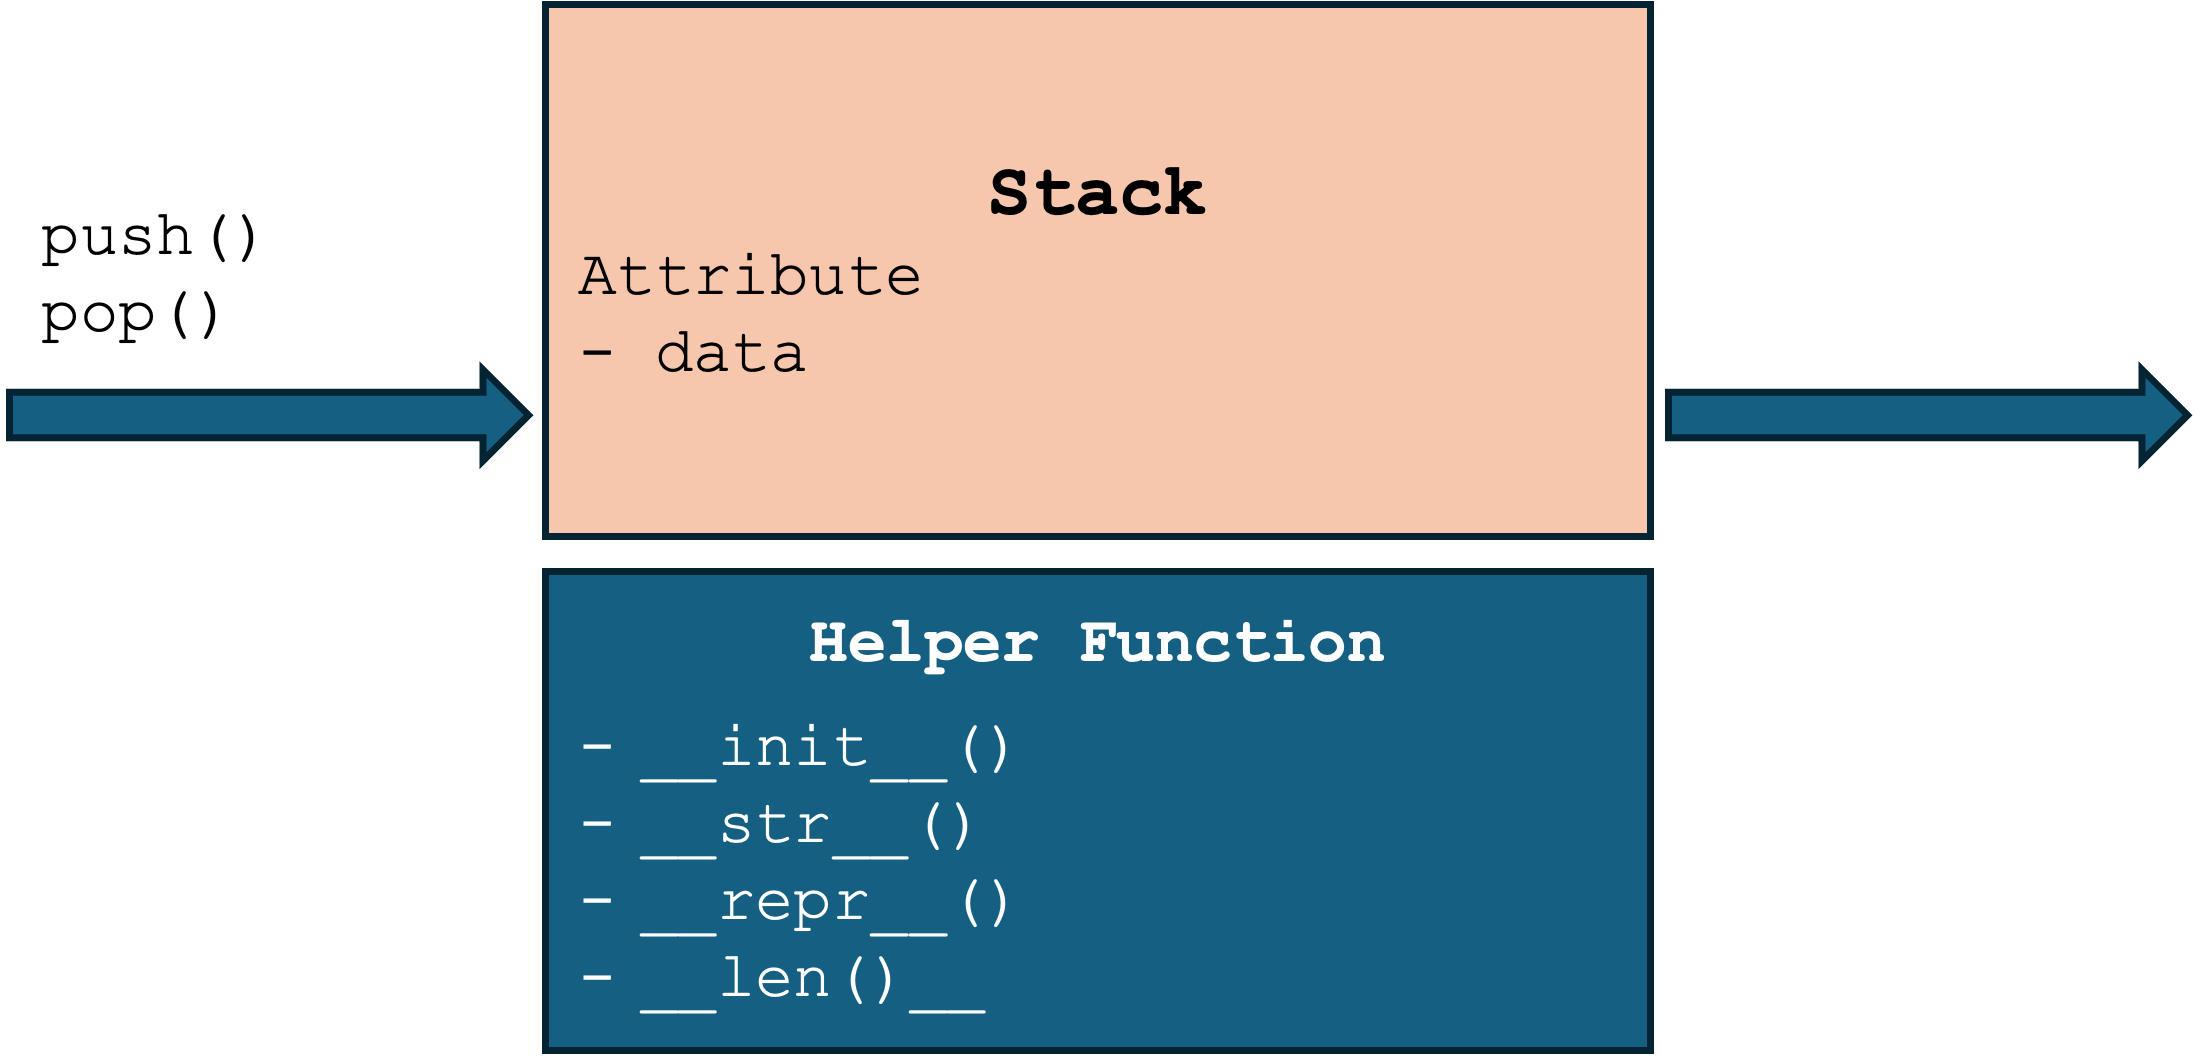
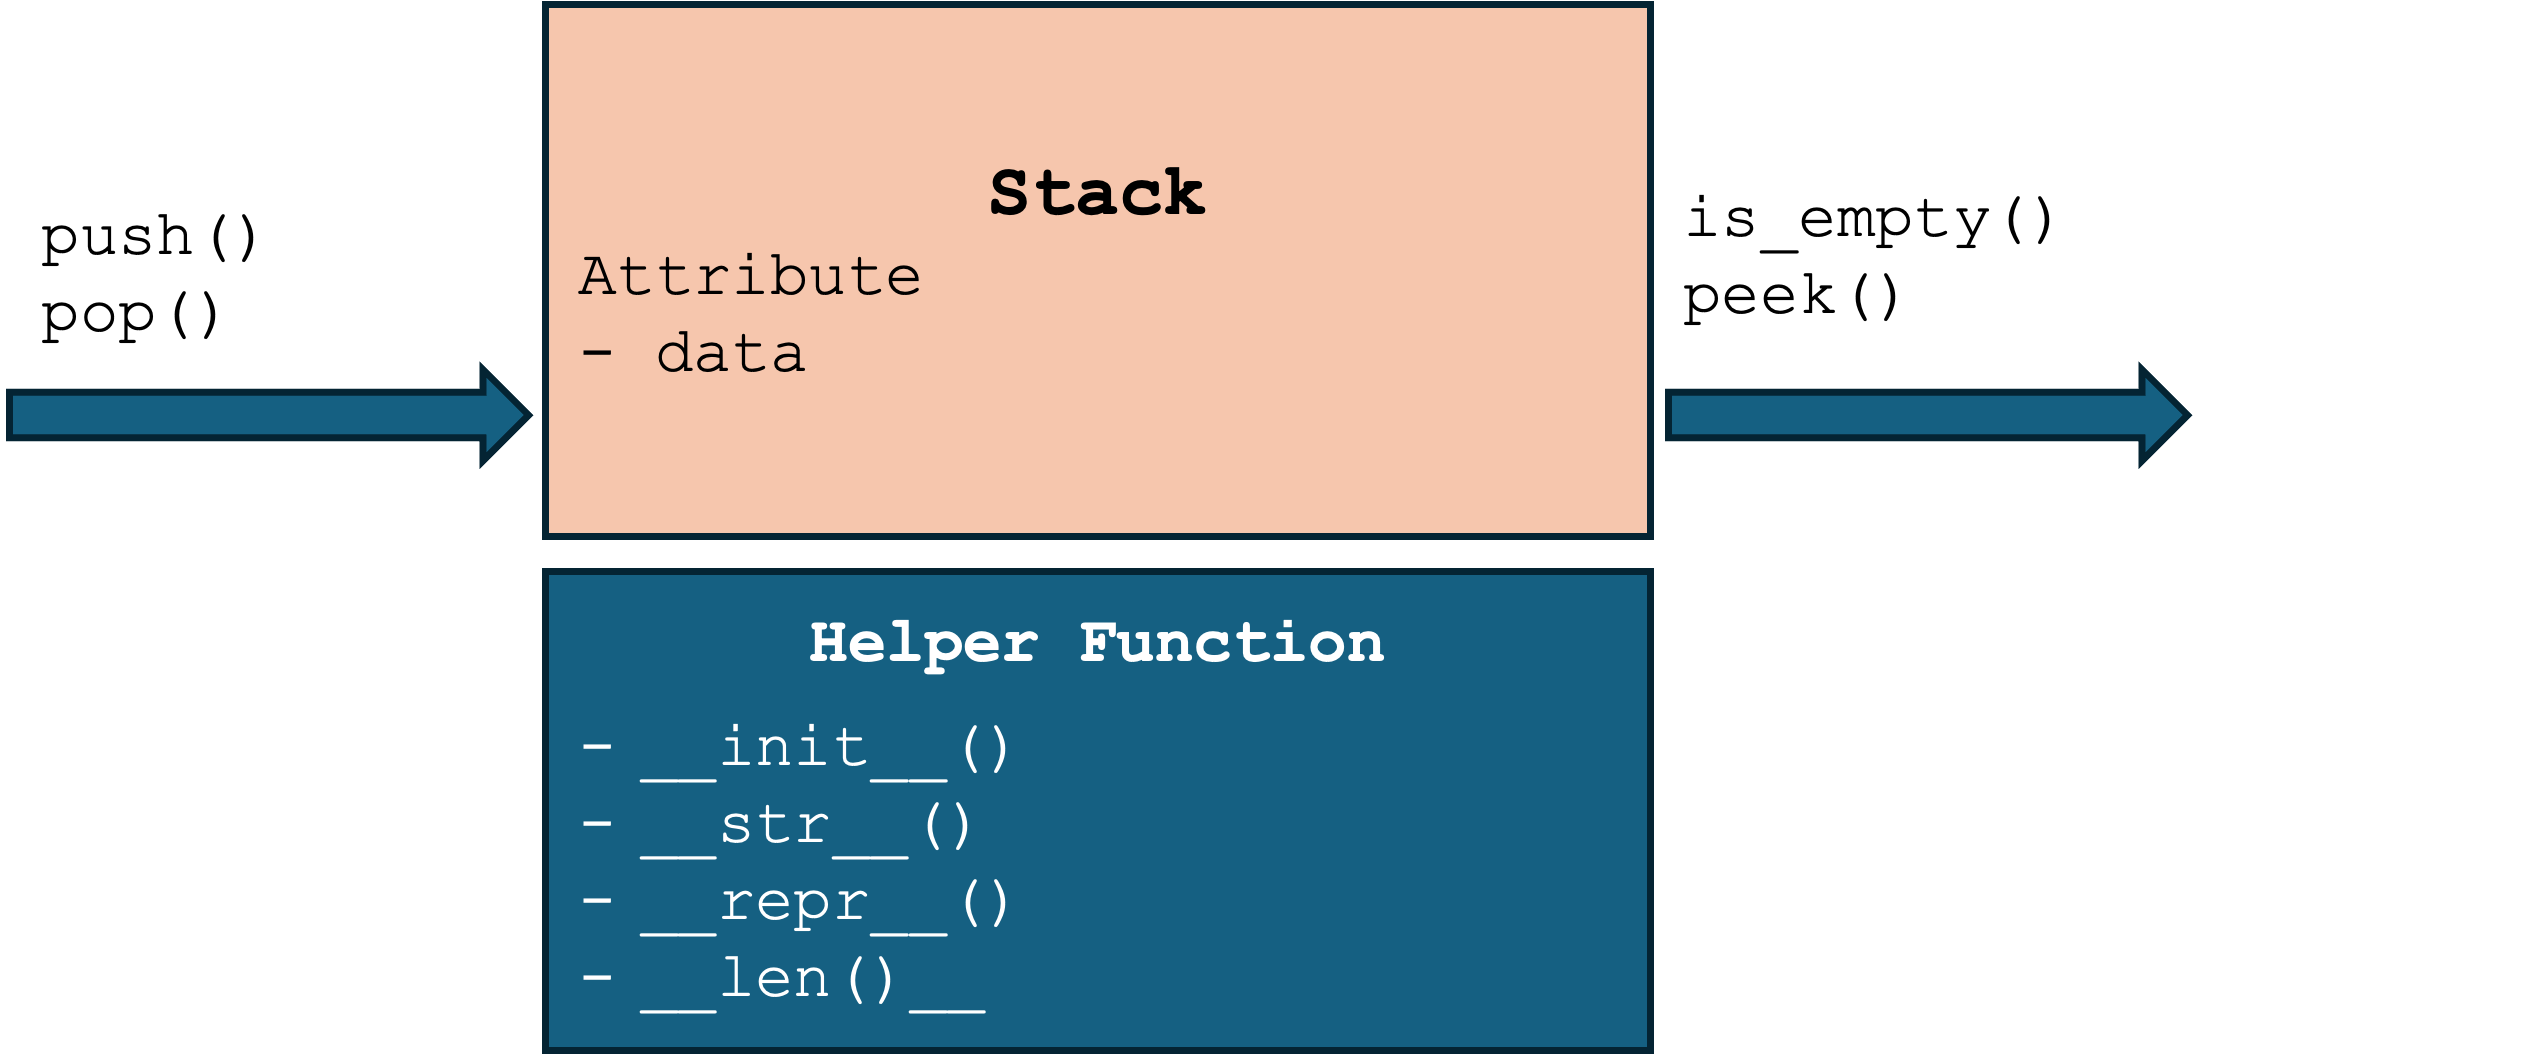
revise ch06

diff --git a/code/ch06_stack_list.py b/code/ch06_stack_list.py
@@ -1,0 +1,48 @@
+class Stack:
+    def __init__(self):
+        self._data = []
+
+    def __len__(self):
+        # Return the size of the stack.
+        return len(self._data)
+
+    def __str__(self):
+        # Return the string representation of the stack.
+        return str(self._data)
+
+    def __repr__(self):
+        # Return the string (internal) representation of the stack.
+        return f"Stack({'->'.join(map(str, self._data))})"
+
+    def is_empty(self):
+        return len(self._data) == 0
+
+    def push(self, value):
+        # Add a new value to the stack.
+        self._data.append(value)
+
+    def pop(self):
+        # Remove and return the last value added to the stack.
+        if self.is_empty():
+            raise ValueError("Cannot pop from an empty stack")
+        return self._data.pop()
+
+    def peek(self):
+        # Return the last value added to the stack without removing it.
+        if self.is_empty():
+            raise ValueError("Cannot peek at an empty stack")
+        return self._data[-1]
+
+
+if __name__ == "__main__":
+    # Example usage of the stack class.
+    stack = Stack()
+    stack.push(1)
+    stack.push(2)
+    stack.push(3)
+    print(stack)
+    print(stack.pop())
+    print(stack.peek())
+    stack.push("abc")
+    print(repr(stack))
+    print(len(stack))

diff --git a/ch06_stacks.md b/ch06_stacks.md
@@ -22,7 +22,7 @@ style: |
 
   .middle-grid {
     display: grid;
-    grid-template-columns: repeat(3, minmax(0, 1fr));
+    grid-template-columns: repeat(4, minmax(0, 1fr));
     gap: 1rem;
   }
   .middle-grid img {
@@ -56,67 +56,38 @@ Stack follows LIFO rule, we design its interface with only two methods:
     <img src="asset/image/stack_illustration.png">
 </div>
 
-# Consider Two Data Structures to Implement Stack
-- Referential array: Python list
+# Design Stack Upon Array and SLL
+- Array: referential array - Python list
 - Linked list: singly linked list (SLL)
 <div class="middle-grid">
     <img src="asset/image/stack_referential_array.png">
     <img src="asset/image/stack_linked_list.png">
-</div>
-
-# Design by SLL
-<div class="columns">
     <img src="asset/image/stack_push.png">
     <img src="asset/image/stack_pop.png">
 </div>
 
+# Implement by List
+[code/ch06_stack_list.py](code/ch06_stack_list.py)
+
 # Implement by SLL
 [code/ch06_stack_sll.py](code/ch06_stack_sll.py)
-
-# Theory vs. the Real World
-- Considering Big O
-  - Stack by SLL: O(1)
-  - Stack by Dynamic array: O(n), but if a large number of operations is performed, their amortized (攤銷的) cost can be considered O(1).
-- Considering implementation
-  - You shouldn’t implement your own library unless it’s absolutely necessary
-  - If the library is critical for your application and can become a bottleneck, you should profile it.
-  - You shouldn’t profile all your code though. Focus on the critical sections where optimization will improve efficiency the most.
-
-# Profiling Example
-- Class Stack in stack.py coded by SLL
-- Class StackArray in stack_dynamic_array.py coded by List to simulate dynamic array
-
-<div class="columns">
-    <img src="files/image/stack_profiling_1.png">
-    <img src="files/image/stack_profiling_2.png">
-</div>
-
-- Python provides an optimized, extremely efficient implementation for list. This
-code is usually written in C and compiled for use in Python
-- With linked lists, we must allocate a new node on each call to push and then
-destroy a Node object on each pop. Allocating the memory and creating the
-objects takes time.
 
 # Stack Application - Evaluating Expression
 - Infix notation: 3 + 2
 - Postfix notation: 3 2 +
 - In infix notation, 3 + 2 * 4 == 3 + (2 * 4) based on operator precedence, if we want to add 3 and 2 first, the formula will be (3 + 2) * 4
 - In postfix notation, we use 3 2 4 * + and 3 2 + 4 * respectively
-- 
+
 <div class="columns">
-    <img src="files/image/stack_postfix_1.png">
-    <img src="files/image/stack_postfix_2.png">
+    <img src="asset/image/stack_postfix_1.png">
+    <img src="asset/image/stack_postfix_2.png">
 </div>
 
+# Stack Application
+[code/ch06_stack_applications.ipynb](code/ch06_stack_applications.ipynb)
+
+
 # Recap
-- A stack is a container that abides by the LIFO policy.
+- A stack is a ADT that abides by the LIFO policy.
 - Stacks provide two operations: push and pop. No other way to insert or delete elements, and search is generally not allowed.
 - A stack can be implemented using either arrays or linked lists to store its elements.
-  - Using dynamic arrays, push and pop take O(n) time in the worst case, but O(1) amortized time (over a large number of operations).
-  - Using SLLs, push and pop take O(1) time in the worst case.
-- The amortized performance of the two implementations is close, and profiling can help you understand which of the two implementations is more efficient in a
-given programming language.
-
-# Backup
-# Homework
-DSA HW (G)
